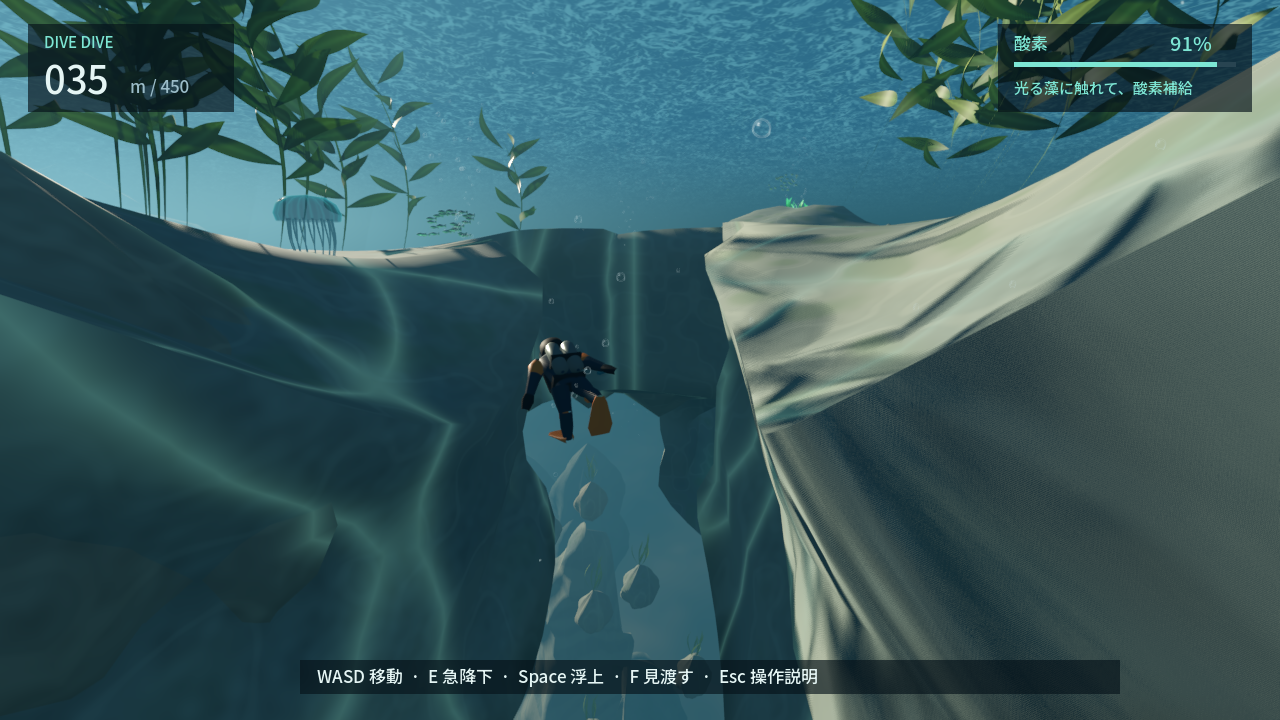
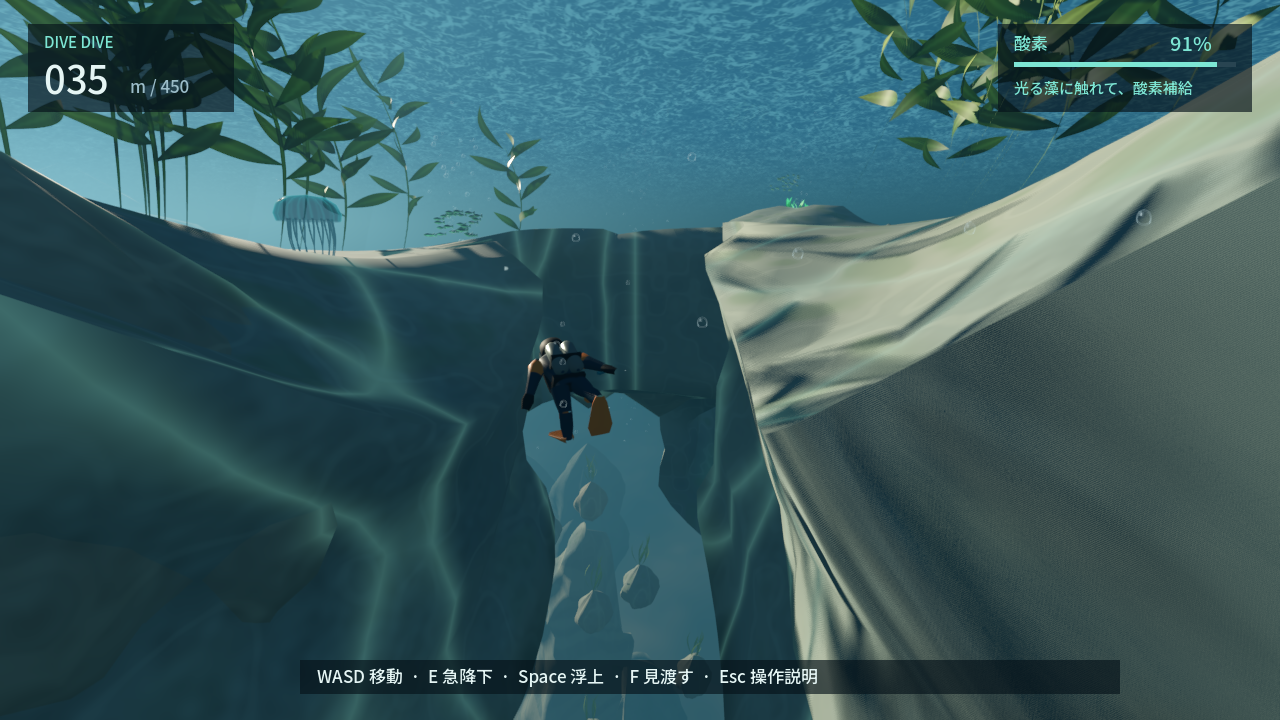
Compare authored cliff mesh and make the entry shoal lead toward kelp

diff --git a/projects/001-first-release/review/sequence/index.html b/projects/001-first-release/review/sequence/index.html
@@ -1,1 +1,1 @@
-<!doctype html><html lang="ja"><meta charset="utf-8"><title>DIVE DIVE — 連続プレイ</title><style>body{margin:24px;background:#071923;color:#e5f5f4;font:16px system-ui}main{max-width:1280px;margin:auto}img{width:100%;display:block}button,input{margin:12px}a{color:#7de6d4}input{width:60%}</style><main><h1>DIVE DIVE 連続プレイ</h1><p>各経路は自動操縦の同じプレイから2秒ごとに撮影。峡谷経路は125mの到達可能な既存補給地点を開始点として設定。モデル時刻の連続画像です（動画ではありません）。</p><select id="route" aria-label="再生する経路"></select><img id="screen" alt="連続プレイ画面"><button id="play">再生</button><input id="seek" type="range" min="0" value="0"><span id="caption"></span></main><script>const runs=[{"label":"入水→右の藻庭→侵食斜面→裂け目（今回・連続操作/比較視線）","frames":[{"depth":0.0,"file":"entry-frame-000.jpg","pose":"swim","seconds":2.0},{"depth":6.8,"file":"entry-frame-001.jpg","pose":"dive","seconds":4.0},{"depth":28.1,"file":"entry-frame-002.jpg","pose":"walk","seconds":6.0},{"depth":33.6,"file":"entry-frame-003.jpg","pose":"swim","seconds":8.0},{"depth":42.0,"file":"entry-frame-004.jpg","pose":"swim","seconds":10.0}]},{"label":"125m→高い根元→低い観察棚→下側（今回・連続操作）","frames":[{"depth":129.3,"file":"canyon-frame-000.jpg","pose":"swim","seconds":2.0},{"depth":139.3,"file":"canyon-frame-001.jpg","pose":"swim","seconds":4.0},{"depth":149.3,"file":"canyon-frame-002.jpg","pose":"swim","seconds":6.0},{"depth":159.3,"file":"canyon-frame-003.jpg","pose":"swim","seconds":8.0},{"depth":160.7,"file":"canyon-frame-004.jpg","pose":"swim","seconds":10.0},{"depth":161.0,"file":"canyon-frame-005.jpg","pose":"ascend","seconds":12.0},{"depth":160.0,"file":"canyon-frame-006.jpg","pose":"idle","seconds":14.0},{"depth":160.0,"file":"canyon-frame-007.jpg","pose":"walk","seconds":16.0},{"depth":166.0,"file":"canyon-frame-008.jpg","pose":"walk","seconds":18.0},{"depth":172.0,"file":"canyon-frame-009.jpg","pose":"walk","seconds":20.0},{"depth":178.7,"file":"canyon-frame-010.jpg","pose":"swim","seconds":22.0},{"depth":188.7,"file":"canyon-frame-011.jpg","pose":"sink","seconds":24.0},{"depth":189.5,"file":"canyon-frame-012.jpg","pose":"ascend","seconds":26.0},{"depth":177.5,"file":"canyon-frame-013.jpg","pose":"ascend","seconds":28.0},{"depth":165.9,"file":"canyon-frame-014.jpg","pose":"ascend","seconds":30.0},{"depth":169.9,"file":"canyon-frame-015.jpg","pose":"swim","seconds":32.0},{"depth":179.9,"file":"canyon-frame-016.jpg","pose":"swim","seconds":34.0},{"depth":181.8,"file":"canyon-frame-017.jpg","pose":"walk","seconds":36.0},{"depth":183.4,"file":"canyon-frame-018.jpg","pose":"swim","seconds":38.0},{"depth":193.4,"file":"canyon-frame-019.jpg","pose":"sink","seconds":40.0},{"depth":203.4,"file":"canyon-frame-020.jpg","pose":"swim","seconds":42.0},{"depth":213.4,"file":"canyon-frame-021.jpg","pose":"swim","seconds":44.0}]},{"label":"岩礁→洞窟→125m合流（過去サイクルの参考）","frames":[{"depth":0.0,"file":"playground-frame-000.jpg","pose":"swim","seconds":2.0},{"depth":14.7,"file":"playground-frame-001.jpg","pose":"dive","seconds":4.0},{"depth":28.1,"file":"playground-frame-002.jpg","pose":"ascend","seconds":6.0},{"depth":27.8,"file":"playground-frame-003.jpg","pose":"walk","seconds":8.0},{"depth":28.9,"file":"playground-frame-004.jpg","pose":"walk","seconds":10.0},{"depth":30.0,"file":"playground-frame-005.jpg","pose":"swim","seconds":12.0},{"depth":32.3,"file":"playground-frame-006.jpg","pose":"walk","seconds":14.0},{"depth":33.0,"file":"playground-frame-007.jpg","pose":"swim","seconds":16.0},{"depth":31.1,"file":"playground-frame-008.jpg","pose":"ascend","seconds":18.0},{"depth":31.3,"file":"playground-frame-009.jpg","pose":"swim","seconds":20.0},{"depth":54.5,"file":"playground-frame-010.jpg","pose":"dive","seconds":22.0},{"depth":53.0,"file":"playground-frame-011.jpg","pose":"ascend","seconds":24.0},{"depth":56.9,"file":"playground-frame-012.jpg","pose":"ascend","seconds":26.0},{"depth":45.1,"file":"playground-frame-013.jpg","pose":"ascend","seconds":28.0},{"depth":43.5,"file":"playground-frame-014.jpg","pose":"ascend","seconds":30.0},{"depth":43.0,"file":"playground-frame-015.jpg","pose":"walk","seconds":32.0},{"depth":43.6,"file":"playground-frame-016.jpg","pose":"walk","seconds":34.0},{"depth":54.1,"file":"playground-frame-017.jpg","pose":"dive","seconds":36.0},{"depth":65.9,"file":"playground-frame-018.jpg","pose":"swim","seconds":38.0},{"depth":72.3,"file":"playground-frame-019.jpg","pose":"swim","seconds":40.0},{"depth":82.3,"file":"playground-frame-020.jpg","pose":"swim","seconds":42.0},{"depth":92.3,"file":"playground-frame-021.jpg","pose":"swim","seconds":44.0},{"depth":94.2,"file":"playground-frame-022.jpg","pose":"swim","seconds":46.0},{"depth":103.4,"file":"playground-frame-023.jpg","pose":"swim","seconds":48.0},{"depth":113.4,"file":"playground-frame-024.jpg","pose":"swim","seconds":50.0},{"depth":123.4,"file":"playground-frame-025.jpg","pose":"swim","seconds":52.0},{"depth":125.0,"file":"playground-frame-026.jpg","pose":"swim","seconds":54.0},{"depth":126.0,"file":"playground-frame-027.jpg","pose":"swim","seconds":56.0}]},{"label":"洞窟→泡→屋根→上穴→別出口（過去サイクルの参考）","frames":[{"depth":48.1,"file":"loop-frame-000.jpg","pose":"walk","seconds":2.0},{"depth":49.6,"file":"loop-frame-001.jpg","pose":"swim","seconds":4.0},{"depth":47.4,"file":"loop-frame-002.jpg","pose":"ascend","seconds":6.0},{"depth":40.5,"file":"loop-frame-003.jpg","pose":"ascend","seconds":8.0},{"depth":35.7,"file":"loop-frame-004.jpg","pose":"ascend","seconds":10.0},{"depth":31.2,"file":"loop-frame-005.jpg","pose":"ascend","seconds":12.0},{"depth":25.6,"file":"loop-frame-006.jpg","pose":"ascend","seconds":14.0},{"depth":24.5,"file":"loop-frame-007.jpg","pose":"ascend","seconds":16.0},{"depth":27.2,"file":"loop-frame-008.jpg","pose":"idle","seconds":18.0},{"depth":28.5,"file":"loop-frame-009.jpg","pose":"walk","seconds":20.0},{"depth":45.6,"file":"loop-frame-010.jpg","pose":"land","seconds":22.0},{"depth":49.6,"file":"loop-frame-011.jpg","pose":"swim","seconds":24.0},{"depth":65.1,"file":"loop-frame-012.jpg","pose":"swim","seconds":26.0}]},{"label":"海上→泡→潮流→アーチ→補給（再配置後・連続入力）","frames":[{"depth":0.0,"file":"discovery-frame-000.jpg","pose":"swim","seconds":2.0},{"depth":20.7,"file":"discovery-frame-001.jpg","pose":"dive","seconds":4.0},{"depth":18.0,"file":"discovery-frame-002.jpg","pose":"ascend","seconds":6.0},{"depth":18.2,"file":"discovery-frame-003.jpg","pose":"swim","seconds":8.0},{"depth":28.2,"file":"discovery-frame-004.jpg","pose":"sink","seconds":10.0},{"depth":37.4,"file":"discovery-frame-005.jpg","pose":"swim","seconds":12.0},{"depth":39.3,"file":"discovery-frame-006.jpg","pose":"swim","seconds":14.0},{"depth":43.3,"file":"discovery-frame-007.jpg","pose":"swim","seconds":16.0},{"depth":50.5,"file":"discovery-frame-008.jpg","pose":"swim","seconds":18.0},{"depth":67.5,"file":"discovery-frame-009.jpg","pose":"dive","seconds":20.0},{"depth":78.8,"file":"discovery-frame-010.jpg","pose":"swim","seconds":22.0},{"depth":88.8,"file":"discovery-frame-011.jpg","pose":"sink","seconds":24.0},{"depth":98.8,"file":"discovery-frame-012.jpg","pose":"sink","seconds":26.0},{"depth":118.1,"file":"discovery-frame-013.jpg","pose":"dive","seconds":28.0}]},{"label":"操作・救助・再挑戦","frames":[{"depth":0.0,"file":"frame-000.jpg","pose":"swim","seconds":2.0},{"depth":7.2,"file":"frame-001.jpg","pose":"swim","seconds":4.0},{"depth":17.2,"file":"frame-002.jpg","pose":"sink","seconds":6.0},{"depth":27.2,"file":"frame-003.jpg","pose":"sink","seconds":8.0},{"depth":30.1,"file":"frame-004.jpg","pose":"walk","seconds":10.0},{"depth":30.0,"file":"frame-005.jpg","pose":"walk","seconds":12.0},{"depth":30.0,"file":"frame-006.jpg","pose":"walk","seconds":14.0},{"depth":33.9,"file":"frame-007.jpg","pose":"swim","seconds":16.0},{"depth":48.9,"file":"frame-008.jpg","pose":"dive","seconds":18.0},{"depth":55.1,"file":"frame-009.jpg","pose":"ascend","seconds":20.0},{"depth":49.2,"file":"frame-010.jpg","pose":"sink","seconds":22.0},{"depth":59.2,"file":"frame-011.jpg","pose":"sink","seconds":24.0},{"depth":61.4,"file":"frame-012.jpg","pose":"swim","seconds":26.0},{"depth":65.4,"file":"frame-013.jpg","pose":"swim","seconds":28.0},{"depth":72.7,"file":"frame-014.jpg","pose":"swim","seconds":30.0},{"depth":82.7,"file":"frame-015.jpg","pose":"sink","seconds":32.0},{"depth":90.5,"file":"frame-016.jpg","pose":"walk","seconds":34.0},{"depth":90.3,"file":"frame-017.jpg","pose":"walk","seconds":36.0},{"depth":90.5,"file":"frame-018.jpg","pose":"idle","seconds":38.0},{"depth":90.5,"file":"frame-019.jpg","pose":"idle","seconds":40.0},{"depth":90.1,"file":"frame-020.jpg","pose":"idle","seconds":42.0},{"depth":90.1,"file":"frame-021.jpg","pose":"idle","seconds":44.0},{"depth":90.1,"file":"frame-022.jpg","pose":"idle","seconds":46.0},{"depth":90.1,"file":"frame-023.jpg","pose":"idle","seconds":48.0},{"depth":83.7,"file":"frame-024.jpg","pose":"ascend","seconds":50.0},{"depth":57.5,"file":"frame-025.jpg","pose":"dive","seconds":52.0},{"depth":61.5,"file":"frame-026.jpg","pose":"swim","seconds":54.0},{"depth":65.5,"file":"frame-027.jpg","pose":"swim","seconds":56.0},{"depth":73.0,"file":"frame-028.jpg","pose":"sink","seconds":58.0},{"depth":83.0,"file":"frame-029.jpg","pose":"sink","seconds":60.0},{"depth":90.3,"file":"frame-030.jpg","pose":"walk","seconds":62.0},{"depth":93.3,"file":"frame-031.jpg","pose":"swim","seconds":64.0}]},{"label":"岸壁・裂け目450m回帰確認","frames":[{"depth":0.0,"file":"reef-frame-000.jpg","pose":"swim","seconds":2.0},{"depth":7.2,"file":"reef-frame-001.jpg","pose":"swim","seconds":4.0},{"depth":17.2,"file":"reef-frame-002.jpg","pose":"sink","seconds":6.0},{"depth":27.2,"file":"reef-frame-003.jpg","pose":"sink","seconds":8.0},{"depth":30.4,"file":"reef-frame-004.jpg","pose":"swim","seconds":10.0},{"depth":34.4,"file":"reef-frame-005.jpg","pose":"swim","seconds":12.0},{"depth":44.2,"file":"reef-frame-006.jpg","pose":"sink","seconds":14.0},{"depth":54.2,"file":"reef-frame-007.jpg","pose":"sink","seconds":16.0},{"depth":60.0,"file":"reef-frame-008.jpg","pose":"walk","seconds":18.0},{"depth":62.5,"file":"reef-frame-009.jpg","pose":"swim","seconds":20.0},{"depth":71.1,"file":"reef-frame-010.jpg","pose":"sink","seconds":22.0},{"depth":81.1,"file":"reef-frame-011.jpg","pose":"sink","seconds":24.0},{"depth":91.1,"file":"reef-frame-012.jpg","pose":"sink","seconds":26.0},{"depth":96.1,"file":"reef-frame-013.jpg","pose":"swim","seconds":28.0},{"depth":103.7,"file":"reef-frame-014.jpg","pose":"sink","seconds":30.0},{"depth":113.7,"file":"reef-frame-015.jpg","pose":"sink","seconds":32.0},{"depth":123.7,"file":"reef-frame-016.jpg","pose":"sink","seconds":34.0},{"depth":133.7,"file":"reef-frame-017.jpg","pose":"sink","seconds":36.0},{"depth":140.0,"file":"reef-frame-018.jpg","pose":"walk","seconds":38.0},{"depth":142.5,"file":"reef-frame-019.jpg","pose":"swim","seconds":40.0},{"depth":146.5,"file":"reef-frame-020.jpg","pose":"swim","seconds":42.0},{"depth":151.6,"file":"reef-frame-021.jpg","pose":"swim","seconds":44.0},{"depth":161.6,"file":"reef-frame-022.jpg","pose":"sink","seconds":46.0},{"depth":171.6,"file":"reef-frame-023.jpg","pose":"sink","seconds":48.0},{"depth":173.4,"file":"reef-frame-024.jpg","pose":"swim","seconds":50.0},{"depth":183.4,"file":"reef-frame-025.jpg","pose":"sink","seconds":52.0},{"depth":190.0,"file":"reef-frame-026.jpg","pose":"walk","seconds":54.0},{"depth":190.0,"file":"reef-frame-027.jpg","pose":"idle","seconds":56.0},{"depth":190.0,"file":"reef-frame-028.jpg","pose":"walk","seconds":58.0},{"depth":190.0,"file":"reef-frame-029.jpg","pose":"idle","seconds":60.0},{"depth":190.0,"file":"reef-frame-030.jpg","pose":"walk","seconds":62.0},{"depth":193.0,"file":"reef-frame-031.jpg","pose":"walk","seconds":64.0},{"depth":194.9,"file":"reef-frame-032.jpg","pose":"sink","seconds":66.0},{"depth":204.9,"file":"reef-frame-033.jpg","pose":"land","seconds":68.0},{"depth":206.4,"file":"reef-frame-034.jpg","pose":"swim","seconds":70.0},{"depth":212.3,"file":"reef-frame-035.jpg","pose":"swim","seconds":72.0},{"depth":222.3,"file":"reef-frame-036.jpg","pose":"sink","seconds":74.0},{"depth":232.3,"file":"reef-frame-037.jpg","pose":"sink","seconds":76.0},{"depth":235.9,"file":"reef-frame-038.jpg","pose":"swim","seconds":78.0},{"depth":240.2,"file":"reef-frame-039.jpg","pose":"swim","seconds":80.0},{"depth":244.3,"file":"reef-frame-040.jpg","pose":"swim","seconds":82.0},{"depth":248.3,"file":"reef-frame-041.jpg","pose":"swim","seconds":84.0},{"depth":256.5,"file":"reef-frame-042.jpg","pose":"sink","seconds":86.0},{"depth":260.0,"file":"reef-frame-043.jpg","pose":"walk","seconds":88.0},{"depth":264.0,"file":"reef-frame-044.jpg","pose":"swim","seconds":90.0},{"depth":271.1,"file":"reef-frame-045.jpg","pose":"swim","seconds":92.0},{"depth":281.1,"file":"reef-frame-046.jpg","pose":"sink","seconds":94.0},{"depth":291.1,"file":"reef-frame-047.jpg","pose":"sink","seconds":96.0},{"depth":300.0,"file":"reef-frame-048.jpg","pose":"land","seconds":98.0},{"depth":300.8,"file":"reef-frame-049.jpg","pose":"swim","seconds":100.0},{"depth":304.8,"file":"reef-frame-050.jpg","pose":"swim","seconds":102.0},{"depth":313.0,"file":"reef-frame-051.jpg","pose":"sink","seconds":104.0},{"depth":323.0,"file":"reef-frame-052.jpg","pose":"sink","seconds":106.0},{"depth":330.0,"file":"reef-frame-053.jpg","pose":"walk","seconds":108.0},{"depth":333.0,"file":"reef-frame-054.jpg","pose":"swim","seconds":110.0},{"depth":340.1,"file":"reef-frame-055.jpg","pose":"swim","seconds":112.0},{"depth":350.1,"file":"reef-frame-056.jpg","pose":"sink","seconds":114.0},{"depth":360.1,"file":"reef-frame-057.jpg","pose":"sink","seconds":116.0},{"depth":365.1,"file":"reef-frame-058.jpg","pose":"walk","seconds":118.0},{"depth":368.9,"file":"reef-frame-059.jpg","pose":"swim","seconds":120.0},{"depth":377.9,"file":"reef-frame-060.jpg","pose":"sink","seconds":122.0},{"depth":380.7,"file":"reef-frame-061.jpg","pose":"swim","seconds":124.0},{"depth":386.8,"file":"reef-frame-062.jpg","pose":"swim","seconds":126.0},{"depth":396.8,"file":"reef-frame-063.jpg","pose":"sink","seconds":128.0},{"depth":406.8,"file":"reef-frame-064.jpg","pose":"sink","seconds":130.0},{"depth":416.8,"file":"reef-frame-065.jpg","pose":"sink","seconds":132.0},{"depth":426.8,"file":"reef-frame-066.jpg","pose":"sink","seconds":134.0},{"depth":436.8,"file":"reef-frame-067.jpg","pose":"sink","seconds":136.0},{"depth":446.8,"file":"reef-frame-068.jpg","pose":"sink","seconds":138.0}]},{"label":"張り出し→沖→下側の藻（今回・進行方向カメラ/開始点設定）","frames":[{"depth":178.4,"file":"lower-frame-000.jpg","pose":"ascend","seconds":2.0},{"depth":184.3,"file":"lower-frame-001.jpg","pose":"swim","seconds":4.0},{"depth":187.7,"file":"lower-frame-002.jpg","pose":"swim","seconds":6.0},{"depth":197.3,"file":"lower-frame-003.jpg","pose":"swim","seconds":8.0},{"depth":207.3,"file":"lower-frame-004.jpg","pose":"swim","seconds":10.0},{"depth":217.3,"file":"lower-frame-005.jpg","pose":"swim","seconds":12.0},{"depth":218.7,"file":"lower-frame-006.jpg","pose":"swim","seconds":14.0},{"depth":219.4,"file":"lower-frame-007.jpg","pose":"swim","seconds":16.0},{"depth":219.0,"file":"lower-frame-008.jpg","pose":"ascend","seconds":18.0},{"depth":220.0,"file":"lower-frame-009.jpg","pose":"swim","seconds":20.0},{"depth":219.9,"file":"lower-frame-010.jpg","pose":"sink","seconds":22.0}]}];let frames=runs[0].frames;let i=0,timer=null;const screen=document.querySelector('#screen'),seek=document.querySelector('#seek'),caption=document.querySelector('#caption'),play=document.querySelector('#play');const route=document.querySelector('#route');runs.forEach((r,n)=>{const o=document.createElement('option');o.value=n;o.textContent=r.label;route.appendChild(o);});route.onchange=()=>{frames=runs[+route.value].frames;i=0;seek.max=frames.length-1;show();};seek.max=frames.length-1;function show(){const f=frames[i];screen.src=f.file;seek.value=i;caption.textContent=f.seconds+'秒 / '+f.depth+'m / '+f.pose;}seek.oninput=()=>{i=+seek.value;show();};play.onclick=()=>{if(timer){clearInterval(timer);timer=null;play.textContent='再生';}else{play.textContent='停止';timer=setInterval(()=>{i=(i+1)%frames.length;show();},2000);}};show();</script></html>
+<!doctype html><html lang="ja"><meta charset="utf-8"><title>DIVE DIVE — 連続プレイ</title><style>body{margin:24px;background:#071923;color:#e5f5f4;font:16px system-ui}main{max-width:1280px;margin:auto}img{width:100%;display:block}button,input{margin:12px}a{color:#7de6d4}input{width:60%}</style><main><h1>DIVE DIVE 連続プレイ</h1><p>各経路は自動操縦の同じプレイから2秒ごとに撮影。峡谷経路は125mの到達可能な既存補給地点を開始点として設定。モデル時刻の連続画像です（動画ではありません）。</p><select id="route" aria-label="再生する経路"></select><img id="screen" alt="連続プレイ画面"><button id="play">再生</button><input id="seek" type="range" min="0" value="0"><span id="caption"></span></main><script>const runs=[{"label":"魚群が横切る入水→右の藻庭→横穴（連続操作/比較視線）","frames":[{"depth":0.0,"file":"entry-frame-000.jpg","pose":"swim","seconds":2.0},{"depth":6.8,"file":"entry-frame-001.jpg","pose":"dive","seconds":4.0},{"depth":28.1,"file":"entry-frame-002.jpg","pose":"walk","seconds":6.0},{"depth":33.6,"file":"entry-frame-003.jpg","pose":"swim","seconds":8.0},{"depth":42.0,"file":"entry-frame-004.jpg","pose":"swim","seconds":10.0}]},{"label":"125m→高い根元→低い観察棚→下側（今回・連続操作）","frames":[{"depth":129.3,"file":"canyon-frame-000.jpg","pose":"swim","seconds":2.0},{"depth":139.3,"file":"canyon-frame-001.jpg","pose":"swim","seconds":4.0},{"depth":149.3,"file":"canyon-frame-002.jpg","pose":"swim","seconds":6.0},{"depth":159.3,"file":"canyon-frame-003.jpg","pose":"swim","seconds":8.0},{"depth":160.7,"file":"canyon-frame-004.jpg","pose":"swim","seconds":10.0},{"depth":161.0,"file":"canyon-frame-005.jpg","pose":"ascend","seconds":12.0},{"depth":160.0,"file":"canyon-frame-006.jpg","pose":"idle","seconds":14.0},{"depth":160.0,"file":"canyon-frame-007.jpg","pose":"walk","seconds":16.0},{"depth":166.0,"file":"canyon-frame-008.jpg","pose":"walk","seconds":18.0},{"depth":172.0,"file":"canyon-frame-009.jpg","pose":"walk","seconds":20.0},{"depth":178.7,"file":"canyon-frame-010.jpg","pose":"swim","seconds":22.0},{"depth":188.7,"file":"canyon-frame-011.jpg","pose":"sink","seconds":24.0},{"depth":189.5,"file":"canyon-frame-012.jpg","pose":"ascend","seconds":26.0},{"depth":177.5,"file":"canyon-frame-013.jpg","pose":"ascend","seconds":28.0},{"depth":165.9,"file":"canyon-frame-014.jpg","pose":"ascend","seconds":30.0},{"depth":169.9,"file":"canyon-frame-015.jpg","pose":"swim","seconds":32.0},{"depth":179.9,"file":"canyon-frame-016.jpg","pose":"swim","seconds":34.0},{"depth":181.8,"file":"canyon-frame-017.jpg","pose":"walk","seconds":36.0},{"depth":183.4,"file":"canyon-frame-018.jpg","pose":"swim","seconds":38.0},{"depth":193.4,"file":"canyon-frame-019.jpg","pose":"sink","seconds":40.0},{"depth":203.4,"file":"canyon-frame-020.jpg","pose":"swim","seconds":42.0},{"depth":213.4,"file":"canyon-frame-021.jpg","pose":"swim","seconds":44.0}]},{"label":"岩礁→洞窟→125m合流（過去サイクルの参考）","frames":[{"depth":0.0,"file":"playground-frame-000.jpg","pose":"swim","seconds":2.0},{"depth":14.7,"file":"playground-frame-001.jpg","pose":"dive","seconds":4.0},{"depth":28.1,"file":"playground-frame-002.jpg","pose":"ascend","seconds":6.0},{"depth":27.8,"file":"playground-frame-003.jpg","pose":"walk","seconds":8.0},{"depth":28.9,"file":"playground-frame-004.jpg","pose":"walk","seconds":10.0},{"depth":30.0,"file":"playground-frame-005.jpg","pose":"swim","seconds":12.0},{"depth":32.3,"file":"playground-frame-006.jpg","pose":"walk","seconds":14.0},{"depth":33.0,"file":"playground-frame-007.jpg","pose":"swim","seconds":16.0},{"depth":31.1,"file":"playground-frame-008.jpg","pose":"ascend","seconds":18.0},{"depth":31.3,"file":"playground-frame-009.jpg","pose":"swim","seconds":20.0},{"depth":54.5,"file":"playground-frame-010.jpg","pose":"dive","seconds":22.0},{"depth":53.0,"file":"playground-frame-011.jpg","pose":"ascend","seconds":24.0},{"depth":56.9,"file":"playground-frame-012.jpg","pose":"ascend","seconds":26.0},{"depth":45.1,"file":"playground-frame-013.jpg","pose":"ascend","seconds":28.0},{"depth":43.5,"file":"playground-frame-014.jpg","pose":"ascend","seconds":30.0},{"depth":43.0,"file":"playground-frame-015.jpg","pose":"walk","seconds":32.0},{"depth":43.6,"file":"playground-frame-016.jpg","pose":"walk","seconds":34.0},{"depth":54.1,"file":"playground-frame-017.jpg","pose":"dive","seconds":36.0},{"depth":65.9,"file":"playground-frame-018.jpg","pose":"swim","seconds":38.0},{"depth":72.3,"file":"playground-frame-019.jpg","pose":"swim","seconds":40.0},{"depth":82.3,"file":"playground-frame-020.jpg","pose":"swim","seconds":42.0},{"depth":92.3,"file":"playground-frame-021.jpg","pose":"swim","seconds":44.0},{"depth":94.2,"file":"playground-frame-022.jpg","pose":"swim","seconds":46.0},{"depth":103.4,"file":"playground-frame-023.jpg","pose":"swim","seconds":48.0},{"depth":113.4,"file":"playground-frame-024.jpg","pose":"swim","seconds":50.0},{"depth":123.4,"file":"playground-frame-025.jpg","pose":"swim","seconds":52.0},{"depth":125.0,"file":"playground-frame-026.jpg","pose":"swim","seconds":54.0},{"depth":126.0,"file":"playground-frame-027.jpg","pose":"swim","seconds":56.0}]},{"label":"洞窟→泡→屋根→上穴→別出口（過去サイクルの参考）","frames":[{"depth":48.1,"file":"loop-frame-000.jpg","pose":"walk","seconds":2.0},{"depth":49.6,"file":"loop-frame-001.jpg","pose":"swim","seconds":4.0},{"depth":47.4,"file":"loop-frame-002.jpg","pose":"ascend","seconds":6.0},{"depth":40.5,"file":"loop-frame-003.jpg","pose":"ascend","seconds":8.0},{"depth":35.7,"file":"loop-frame-004.jpg","pose":"ascend","seconds":10.0},{"depth":31.2,"file":"loop-frame-005.jpg","pose":"ascend","seconds":12.0},{"depth":25.6,"file":"loop-frame-006.jpg","pose":"ascend","seconds":14.0},{"depth":24.5,"file":"loop-frame-007.jpg","pose":"ascend","seconds":16.0},{"depth":27.2,"file":"loop-frame-008.jpg","pose":"idle","seconds":18.0},{"depth":28.5,"file":"loop-frame-009.jpg","pose":"walk","seconds":20.0},{"depth":45.6,"file":"loop-frame-010.jpg","pose":"land","seconds":22.0},{"depth":49.6,"file":"loop-frame-011.jpg","pose":"swim","seconds":24.0},{"depth":65.1,"file":"loop-frame-012.jpg","pose":"swim","seconds":26.0}]},{"label":"海上→泡→潮流→アーチ→補給（再配置後・連続入力）","frames":[{"depth":0.0,"file":"discovery-frame-000.jpg","pose":"swim","seconds":2.0},{"depth":20.7,"file":"discovery-frame-001.jpg","pose":"dive","seconds":4.0},{"depth":18.0,"file":"discovery-frame-002.jpg","pose":"ascend","seconds":6.0},{"depth":18.2,"file":"discovery-frame-003.jpg","pose":"swim","seconds":8.0},{"depth":28.2,"file":"discovery-frame-004.jpg","pose":"sink","seconds":10.0},{"depth":37.4,"file":"discovery-frame-005.jpg","pose":"swim","seconds":12.0},{"depth":39.3,"file":"discovery-frame-006.jpg","pose":"swim","seconds":14.0},{"depth":43.3,"file":"discovery-frame-007.jpg","pose":"swim","seconds":16.0},{"depth":50.5,"file":"discovery-frame-008.jpg","pose":"swim","seconds":18.0},{"depth":67.5,"file":"discovery-frame-009.jpg","pose":"dive","seconds":20.0},{"depth":78.8,"file":"discovery-frame-010.jpg","pose":"swim","seconds":22.0},{"depth":88.8,"file":"discovery-frame-011.jpg","pose":"sink","seconds":24.0},{"depth":98.8,"file":"discovery-frame-012.jpg","pose":"sink","seconds":26.0},{"depth":118.1,"file":"discovery-frame-013.jpg","pose":"dive","seconds":28.0}]},{"label":"操作・救助・再挑戦","frames":[{"depth":0.0,"file":"frame-000.jpg","pose":"swim","seconds":2.0},{"depth":7.2,"file":"frame-001.jpg","pose":"swim","seconds":4.0},{"depth":17.2,"file":"frame-002.jpg","pose":"sink","seconds":6.0},{"depth":27.2,"file":"frame-003.jpg","pose":"sink","seconds":8.0},{"depth":30.1,"file":"frame-004.jpg","pose":"walk","seconds":10.0},{"depth":30.0,"file":"frame-005.jpg","pose":"walk","seconds":12.0},{"depth":30.0,"file":"frame-006.jpg","pose":"walk","seconds":14.0},{"depth":33.9,"file":"frame-007.jpg","pose":"swim","seconds":16.0},{"depth":48.9,"file":"frame-008.jpg","pose":"dive","seconds":18.0},{"depth":55.1,"file":"frame-009.jpg","pose":"ascend","seconds":20.0},{"depth":49.2,"file":"frame-010.jpg","pose":"sink","seconds":22.0},{"depth":59.2,"file":"frame-011.jpg","pose":"sink","seconds":24.0},{"depth":61.4,"file":"frame-012.jpg","pose":"swim","seconds":26.0},{"depth":65.4,"file":"frame-013.jpg","pose":"swim","seconds":28.0},{"depth":72.7,"file":"frame-014.jpg","pose":"swim","seconds":30.0},{"depth":82.7,"file":"frame-015.jpg","pose":"sink","seconds":32.0},{"depth":90.5,"file":"frame-016.jpg","pose":"walk","seconds":34.0},{"depth":90.3,"file":"frame-017.jpg","pose":"walk","seconds":36.0},{"depth":90.5,"file":"frame-018.jpg","pose":"idle","seconds":38.0},{"depth":90.5,"file":"frame-019.jpg","pose":"idle","seconds":40.0},{"depth":90.1,"file":"frame-020.jpg","pose":"idle","seconds":42.0},{"depth":90.1,"file":"frame-021.jpg","pose":"idle","seconds":44.0},{"depth":90.1,"file":"frame-022.jpg","pose":"idle","seconds":46.0},{"depth":90.1,"file":"frame-023.jpg","pose":"idle","seconds":48.0},{"depth":83.7,"file":"frame-024.jpg","pose":"ascend","seconds":50.0},{"depth":57.5,"file":"frame-025.jpg","pose":"dive","seconds":52.0},{"depth":61.5,"file":"frame-026.jpg","pose":"swim","seconds":54.0},{"depth":65.5,"file":"frame-027.jpg","pose":"swim","seconds":56.0},{"depth":73.0,"file":"frame-028.jpg","pose":"sink","seconds":58.0},{"depth":83.0,"file":"frame-029.jpg","pose":"sink","seconds":60.0},{"depth":90.3,"file":"frame-030.jpg","pose":"walk","seconds":62.0},{"depth":93.3,"file":"frame-031.jpg","pose":"swim","seconds":64.0}]},{"label":"岸壁・裂け目450m回帰確認","frames":[{"depth":0.0,"file":"reef-frame-000.jpg","pose":"swim","seconds":2.0},{"depth":7.2,"file":"reef-frame-001.jpg","pose":"swim","seconds":4.0},{"depth":17.2,"file":"reef-frame-002.jpg","pose":"sink","seconds":6.0},{"depth":27.2,"file":"reef-frame-003.jpg","pose":"sink","seconds":8.0},{"depth":30.4,"file":"reef-frame-004.jpg","pose":"swim","seconds":10.0},{"depth":34.4,"file":"reef-frame-005.jpg","pose":"swim","seconds":12.0},{"depth":44.2,"file":"reef-frame-006.jpg","pose":"sink","seconds":14.0},{"depth":54.2,"file":"reef-frame-007.jpg","pose":"sink","seconds":16.0},{"depth":60.0,"file":"reef-frame-008.jpg","pose":"walk","seconds":18.0},{"depth":62.5,"file":"reef-frame-009.jpg","pose":"swim","seconds":20.0},{"depth":71.1,"file":"reef-frame-010.jpg","pose":"sink","seconds":22.0},{"depth":81.1,"file":"reef-frame-011.jpg","pose":"sink","seconds":24.0},{"depth":91.1,"file":"reef-frame-012.jpg","pose":"sink","seconds":26.0},{"depth":96.1,"file":"reef-frame-013.jpg","pose":"swim","seconds":28.0},{"depth":103.7,"file":"reef-frame-014.jpg","pose":"sink","seconds":30.0},{"depth":113.7,"file":"reef-frame-015.jpg","pose":"sink","seconds":32.0},{"depth":123.7,"file":"reef-frame-016.jpg","pose":"sink","seconds":34.0},{"depth":133.7,"file":"reef-frame-017.jpg","pose":"sink","seconds":36.0},{"depth":140.0,"file":"reef-frame-018.jpg","pose":"walk","seconds":38.0},{"depth":142.5,"file":"reef-frame-019.jpg","pose":"swim","seconds":40.0},{"depth":146.5,"file":"reef-frame-020.jpg","pose":"swim","seconds":42.0},{"depth":151.6,"file":"reef-frame-021.jpg","pose":"swim","seconds":44.0},{"depth":161.6,"file":"reef-frame-022.jpg","pose":"sink","seconds":46.0},{"depth":171.6,"file":"reef-frame-023.jpg","pose":"sink","seconds":48.0},{"depth":173.4,"file":"reef-frame-024.jpg","pose":"swim","seconds":50.0},{"depth":183.4,"file":"reef-frame-025.jpg","pose":"sink","seconds":52.0},{"depth":190.0,"file":"reef-frame-026.jpg","pose":"walk","seconds":54.0},{"depth":190.0,"file":"reef-frame-027.jpg","pose":"idle","seconds":56.0},{"depth":190.0,"file":"reef-frame-028.jpg","pose":"walk","seconds":58.0},{"depth":190.0,"file":"reef-frame-029.jpg","pose":"idle","seconds":60.0},{"depth":190.0,"file":"reef-frame-030.jpg","pose":"walk","seconds":62.0},{"depth":193.0,"file":"reef-frame-031.jpg","pose":"walk","seconds":64.0},{"depth":194.9,"file":"reef-frame-032.jpg","pose":"sink","seconds":66.0},{"depth":204.9,"file":"reef-frame-033.jpg","pose":"land","seconds":68.0},{"depth":206.4,"file":"reef-frame-034.jpg","pose":"swim","seconds":70.0},{"depth":212.3,"file":"reef-frame-035.jpg","pose":"swim","seconds":72.0},{"depth":222.3,"file":"reef-frame-036.jpg","pose":"sink","seconds":74.0},{"depth":232.3,"file":"reef-frame-037.jpg","pose":"sink","seconds":76.0},{"depth":235.9,"file":"reef-frame-038.jpg","pose":"swim","seconds":78.0},{"depth":240.2,"file":"reef-frame-039.jpg","pose":"swim","seconds":80.0},{"depth":244.3,"file":"reef-frame-040.jpg","pose":"swim","seconds":82.0},{"depth":248.3,"file":"reef-frame-041.jpg","pose":"swim","seconds":84.0},{"depth":256.5,"file":"reef-frame-042.jpg","pose":"sink","seconds":86.0},{"depth":260.0,"file":"reef-frame-043.jpg","pose":"walk","seconds":88.0},{"depth":264.0,"file":"reef-frame-044.jpg","pose":"swim","seconds":90.0},{"depth":271.1,"file":"reef-frame-045.jpg","pose":"swim","seconds":92.0},{"depth":281.1,"file":"reef-frame-046.jpg","pose":"sink","seconds":94.0},{"depth":291.1,"file":"reef-frame-047.jpg","pose":"sink","seconds":96.0},{"depth":300.0,"file":"reef-frame-048.jpg","pose":"land","seconds":98.0},{"depth":300.8,"file":"reef-frame-049.jpg","pose":"swim","seconds":100.0},{"depth":304.8,"file":"reef-frame-050.jpg","pose":"swim","seconds":102.0},{"depth":313.0,"file":"reef-frame-051.jpg","pose":"sink","seconds":104.0},{"depth":323.0,"file":"reef-frame-052.jpg","pose":"sink","seconds":106.0},{"depth":330.0,"file":"reef-frame-053.jpg","pose":"walk","seconds":108.0},{"depth":333.0,"file":"reef-frame-054.jpg","pose":"swim","seconds":110.0},{"depth":340.1,"file":"reef-frame-055.jpg","pose":"swim","seconds":112.0},{"depth":350.1,"file":"reef-frame-056.jpg","pose":"sink","seconds":114.0},{"depth":360.1,"file":"reef-frame-057.jpg","pose":"sink","seconds":116.0},{"depth":365.1,"file":"reef-frame-058.jpg","pose":"walk","seconds":118.0},{"depth":368.9,"file":"reef-frame-059.jpg","pose":"swim","seconds":120.0},{"depth":377.9,"file":"reef-frame-060.jpg","pose":"sink","seconds":122.0},{"depth":380.7,"file":"reef-frame-061.jpg","pose":"swim","seconds":124.0},{"depth":386.8,"file":"reef-frame-062.jpg","pose":"swim","seconds":126.0},{"depth":396.8,"file":"reef-frame-063.jpg","pose":"sink","seconds":128.0},{"depth":406.8,"file":"reef-frame-064.jpg","pose":"sink","seconds":130.0},{"depth":416.8,"file":"reef-frame-065.jpg","pose":"sink","seconds":132.0},{"depth":426.8,"file":"reef-frame-066.jpg","pose":"sink","seconds":134.0},{"depth":436.8,"file":"reef-frame-067.jpg","pose":"sink","seconds":136.0},{"depth":446.8,"file":"reef-frame-068.jpg","pose":"sink","seconds":138.0}]},{"label":"張り出し→沖→下側の藻（今回・進行方向カメラ/開始点設定）","frames":[{"depth":178.4,"file":"lower-frame-000.jpg","pose":"ascend","seconds":2.0},{"depth":184.3,"file":"lower-frame-001.jpg","pose":"swim","seconds":4.0},{"depth":187.7,"file":"lower-frame-002.jpg","pose":"swim","seconds":6.0},{"depth":197.3,"file":"lower-frame-003.jpg","pose":"swim","seconds":8.0},{"depth":207.3,"file":"lower-frame-004.jpg","pose":"swim","seconds":10.0},{"depth":217.3,"file":"lower-frame-005.jpg","pose":"swim","seconds":12.0},{"depth":218.7,"file":"lower-frame-006.jpg","pose":"swim","seconds":14.0},{"depth":219.4,"file":"lower-frame-007.jpg","pose":"swim","seconds":16.0},{"depth":219.0,"file":"lower-frame-008.jpg","pose":"ascend","seconds":18.0},{"depth":220.0,"file":"lower-frame-009.jpg","pose":"swim","seconds":20.0},{"depth":219.9,"file":"lower-frame-010.jpg","pose":"sink","seconds":22.0}]}];let frames=runs[0].frames;let i=0,timer=null;const screen=document.querySelector('#screen'),seek=document.querySelector('#seek'),caption=document.querySelector('#caption'),play=document.querySelector('#play');const route=document.querySelector('#route');runs.forEach((r,n)=>{const o=document.createElement('option');o.value=n;o.textContent=r.label;route.appendChild(o);});route.onchange=()=>{frames=runs[+route.value].frames;i=0;seek.max=frames.length-1;show();};seek.max=frames.length-1;function show(){const f=frames[i];screen.src=f.file;seek.value=i;caption.textContent=f.seconds+'秒 / '+f.depth+'m / '+f.pose;}seek.oninput=()=>{i=+seek.value;show();};play.onclick=()=>{if(timer){clearInterval(timer);timer=null;play.textContent='再生';}else{play.textContent='停止';timer=setInterval(()=>{i=(i+1)%frames.length;show();},2000);}};show();</script></html>

diff --git a/projects/001-first-release/REVIEW_PACKET.md b/projects/001-first-release/REVIEW_PACKET.md
@@ -1,8 +1,22 @@
 # DIVE DIVE — REVIEW PACKET
 
-**2026-09-20 / Phase 3 / CHANGES・SELF_CONTINUE**。origin/main `05d9a46` の人間方針・外部レビューを同期。人間レビューは求めない。
+**2026-09-20 / Phase 3 / CHANGES・SELF_CONTINUE**。origin/main `2f7e43f` の人間方針・外部レビューを同期。人間レビューは求めない。
 
-## 最新比較: 高い根元・切れ込み・低い観察棚
+## 最新: 局所meshを棄却し、入水の生物の手掛かりへ
+
+張り出し1個でA（c87a402の生成版）とB（手作り断面の静的mesh）を比較した。B初案は尖った面が目立ち、閉じたmeshを2回細分化して再試験したが、丸い大面と刃状の下面になった。[Aの固定視線](review/canyon-before/61-procedural-a.png) / [B修正版](review/canyon-before/61-authored-b.png)。位置・光・視線は同じ、生物/粒子位相は一致しない。[Aの到達地点](review/canyon-before/64-procedural-a.png) / [Bの到達地点](review/canyon-before/64-authored-b.png)は自動操縦の着地結果で、高さは完全同一ではない。
+
+**Bは不採用。** 高い根元/低い棚/切れ込みの到達は維持できたが、自然さが明確に上がらず、細分化で下面が縮んでSpace試走が端へ滑り抜けた。70検査中2件の既存停止条件を満たさない。見えない面を貫通した証明ではないが、判定を緩めて採用もしない。通常ゲームはAのまま。専用meshが常に不要とは断定せず、今回の1案では方式変更の根拠なしと決定。生成assetはartifactsへ隔離、再現用の手作り座標だけ[作者ツール](tools/author_remnant.gd)に保持。
+
+次にDD-064へ進んだ。通常入水では「左の泡に乗るか、右へ横切る魚群と藻の庭を調べるか」を迷わせたい。魚を増やすだけでなく、別方向に周回していたshaderを、群れの実際の横移動と同じ向きへ揃えた。初案は画面右端で切れたため内側へ修正。[入水の前](review/entry-before/69-before-shoal.png) → [今](review/69-default-entry.png)。通常のW入水・マウス変更なしで右の生物がまとまって見える。[庭の前](review/entry-before/65-before-shoal.png) → [今](review/65-cleft-choice.png)では到着後に裂け目を覗ける構成を維持。[連続画像](review/sequence/index.html)。
+
+自己批評: 生物の向きと右側の動機は読みやすくなったが、魚の反復形・折り返し、庭の先の未知は弱い。景観密度の改善であってプレイアブル面積の拡大ではない。製品品質PASSや人間レビュー条件達成とはしない。次はDD-069の入口先の未知、DD-065の帯状骨格から場所への置換。
+
+再現: `Godot --headless --path . --script tools/author_remnant.gd` の後、`Godot --headless --path . --script tests/test_canyon.gd -- --remnant-authored`。後者は棄却理由の2件を再現し失敗終了する。`--rough-cage` を作者ツールへ渡すと初案。比較flagなしの通常checkはAを使う。GPU比較は同じflagを既存の画面外/無音起動設定へ追加し、出力も `canyon-<renderer>-authored` に分離する。
+
+今回の通常版は全check/build成功。峡谷70・入水17、既存の実衝突689/11経路を維持。入水のForward+/Compatibility画像、標準visualの救助/到達、配布EXE Forward+120フレーム成功。棄却Bの失敗は通常版/CIと分離する。GPUは画面外・無音・非捕捉、自分のプロセスは終了済み。
+
+## 前回: 高い根元・切れ込み・低い観察棚
 
 西の根元を持ち上げ、低い藻の棚との間に深い切れ込みを作った。下面の根と沖側も別の輪郭へ。[42467a2の内部](review/canyon-before/61-before-cleaved-remnant.png) → [今回](review/canyon/61-canyon-interior.png)。同じカメラで高さと通り道の分離は読める。一方で左の大きな面は依然模型的。[観察棚の前](review/canyon-before/64-before-cleaved-remnant.png) → [今回](review/canyon/64-crossing.png)では広い上面がまだ単調で、全体の品質合格とはしない。
 

diff --git a/projects/001-first-release/AI_REVIEW.md b/projects/001-first-release/AI_REVIEW.md
@@ -2,7 +2,9 @@
 
 **CHANGES / SELF_CONTINUE**。c6f6b1eの人間コメントは「まだレビューする段階ではない」。現在の実装者による自己評価。合格や独立レビューとは扱わない。
 
-最新正本05d9a46への対応: 高い根元/低い観察棚/深い切れ込み/別輪郭の下面へ分離。前版42467a2の同カメラ61では連続した板が崩れたが、左の大面と64の上面はまだ模型的。新しい肩で旧操縦が詰まったため、Spaceで越える経路に修正し、切れ込み自体も4.18秒で実通過。形を変えた成果と製品品質を区別する。次は入水右の二段階発見と下側入口先の未知。大形状再制作は2回目、形状方式の小規模A/B条件を保持。
+最新正本2f7e43f: 張り出し専用meshを実比較。粗い手作り面は鋭い三角形が目立ち、2回細分化しても大面の模型感を改善できなかった。下面の収縮ではSpace試走が端へ滑って既存の停止条件を満たさない。全身すり抜けと断定はしないが、これをテスト緩和で採用せずBを棄却。通常版Aを維持する。形状方式の置換自体を品質向上としない。
+
+次の試作はDD-064。入水の魚群を藻庭へ向く横断にし、画面端で切れる初案を修正。前版より右側に生物のまとまりが読める。ただし魚の形の反復と折り返し、庭の先への期待は弱い。景観密度は上がったが、遊べる領域は増えていない。Aは左の泡/右の生物を見比べる、Bは任意の寄り道、Cは群れが方向を示す、D/Eは既存到達と衝突維持、Fは右の近景が強い、Gは未合格。CHANGESのまま。
 
 ## 今回の仮説と18案
 

diff --git a/projects/001-first-release/HUMAN_DIRECTION.md b/projects/001-first-release/HUMAN_DIRECTION.md
@@ -103,4 +103,4 @@ PC非干渉は継続。通常headless、GPUはまとめて画面外/非捕捉。
 - スクリーンショットへの具体的な批評を先にCodexが書き、改善案を作る。人間の赤入れが来るまで待つ運用へ変更しない。
 
 
-正本確認: origin/main 05d9a46。2026-09-20 fetch/merge後。正本本文と上記会話補足を保持。未実装部分はTASKSのDD-064/065/067/068/069/070。CHANGES / SELF_CONTINUE。
+正本確認: origin/main 2f7e43f。2026-09-20 fetch/merge後。正本本文と上記会話補足を保持。未実装部分はTASKSのDD-064/065/067/068/069/070。CHANGES / SELF_CONTINUE。
